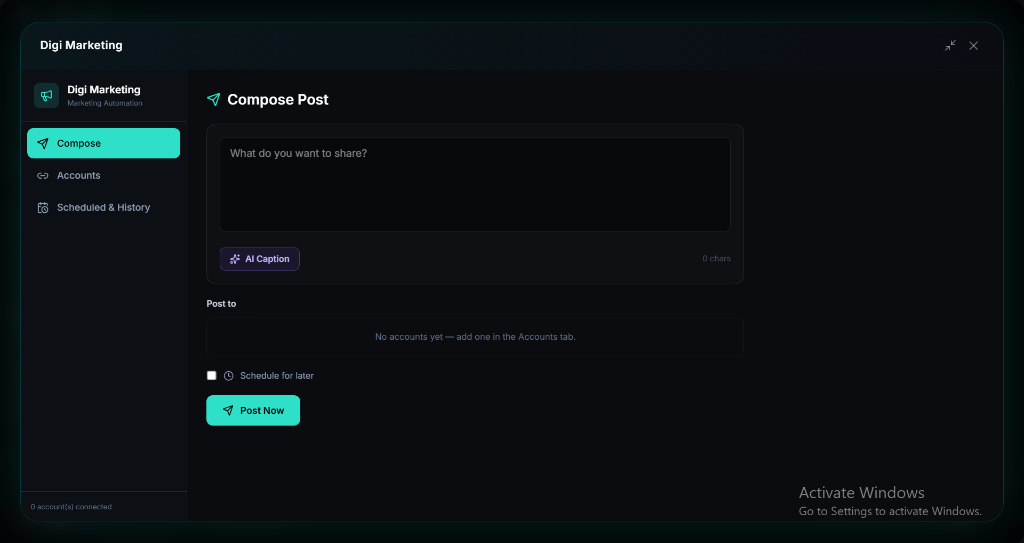
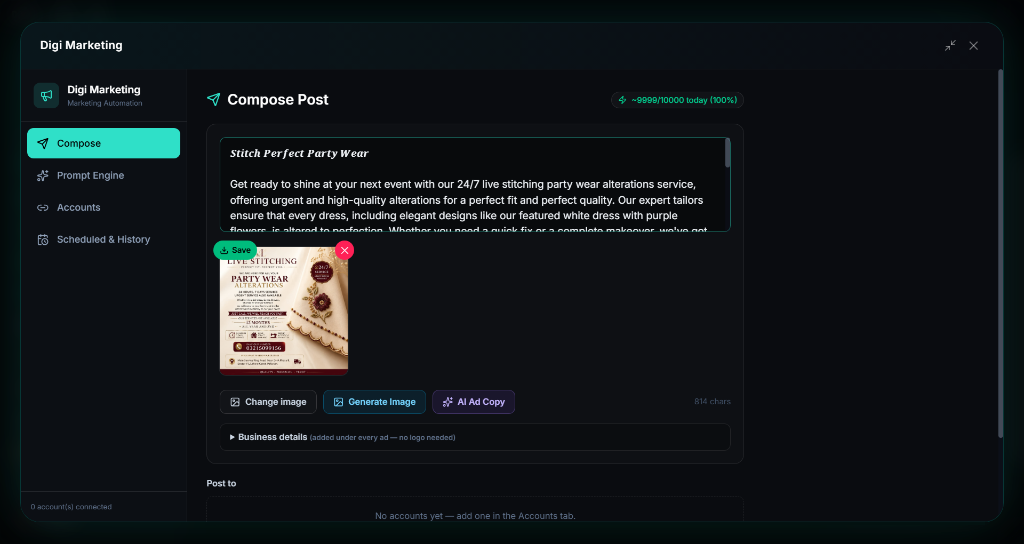
feat(showcase): add authentic watermark-free Digi Marketing compose & ad studio screenshot

diff --git a/src/components/home/SoftwareShowcase.tsx b/src/components/home/SoftwareShowcase.tsx
@@ -127,6 +127,12 @@ const SLIDES = [
     body: "Paste any video or playlist link for zero-download instant text fetching, or upload media files for local Whisper transcription, structured study notes, and course generation.",
   },
   {
+    src: digiMarketing,
+    tag: "Digi Marketing — AI Compose & Ad Campaigns",
+    title: "AI copy generation, flyer visual studio, and multi-channel publishing.",
+    body: "Multi-platform post compose engine with instant AI ad copy generation, token quota counter, flyer attachments, business details injection, and scheduled social campaigns.",
+  },
+  {
     src: digiCode,
     tag: "Digi Code",
     title: "A coding agent that works inside your projects.",
